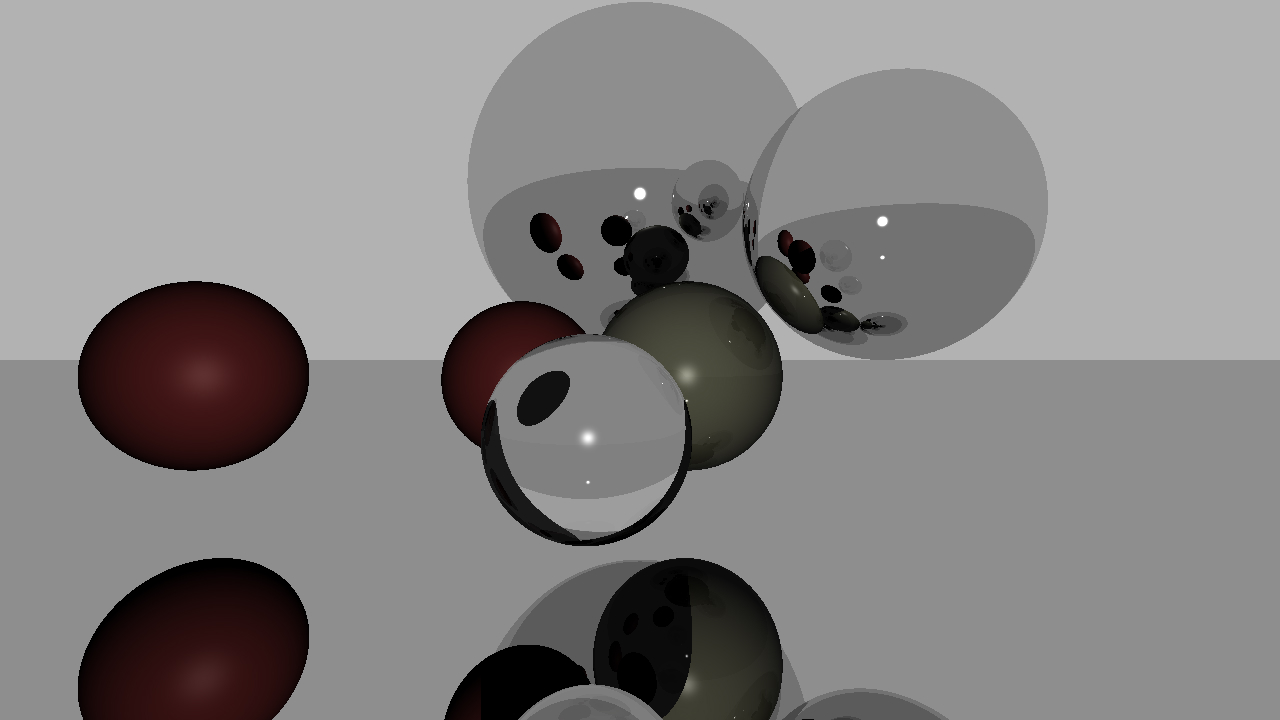
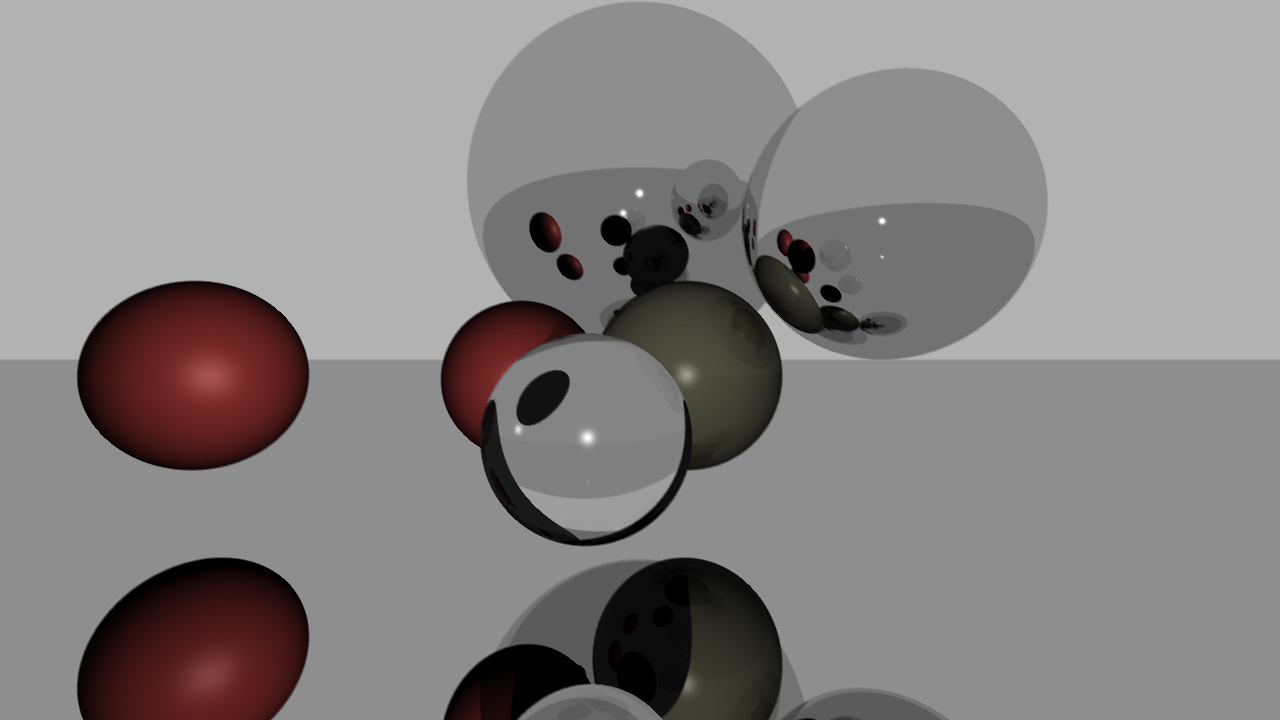
fixed msaa
removed usless includes

diff --git a/main.cpp b/main.cpp
@@ -1,11 +1,12 @@
 #include <limits>
+
 #define _USE_MATH_DEFINES
 #include <cmath>
-#include <iostream>
 #include <vector>
 #include <algorithm>
 #include <optional>
 #include "geometry.h"
+
 #define STB_IMAGE_WRITE_IMPLEMENTATION
 #include "stb_image_write.h"
 
@@ -231,7 +232,7 @@ class renderer
 		spheres.emplace_back(vec3f(-14, -0.5, -20), 3, red_rubber);
 		plans.emplace_back(vec3f(0, -5, 0), vec3f(0, 1, 0), mirror);
 		//plans.emplace_back(vec3f(0, 0, -30), vec3f(0, 0, 1), ivory);
-		//lights.emplace_back(vec3f(-3, -1, -10), 0.8);
+		lights.emplace_back(vec3f(-3, -1, -10), 0.8);
 		lights.emplace_back(vec3f(0, 0, 0), 1.0);
 	}
 
@@ -245,7 +246,7 @@ class renderer
 			{
 				for (unsigned m = 0; m < msaa; m++)
 				{
-					float const sample_offset = std::min(.5f, (float)m / (msaa / 2));
+					float const sample_offset = msaa > 1 ? (float)m / (msaa / 2) : 0.5f;
 					float const x = (2 * (j + sample_offset) / (float)width - 1) * tf2 * width / (float)height;
 					float const y = -(2 * (i + sample_offset) / (float)height - 1) * tf2;
 					vec3f const dir = vec3f(x, y, -1).normalize();
@@ -279,7 +280,7 @@ class renderer
 	
 	color clear_color = Color::black;
 	unsigned max_depth = 8;
-	unsigned msaa = 1;
+	unsigned msaa = 8;
 	
 	private:
 

diff --git a/geometry.h b/geometry.h
@@ -1,7 +1,6 @@
 #ifndef __GEOMETRY_H__
 #define __GEOMETRY_H__
 #include <cmath>
-#include <vector>
 #include <cassert>
 #include <iostream>
 
